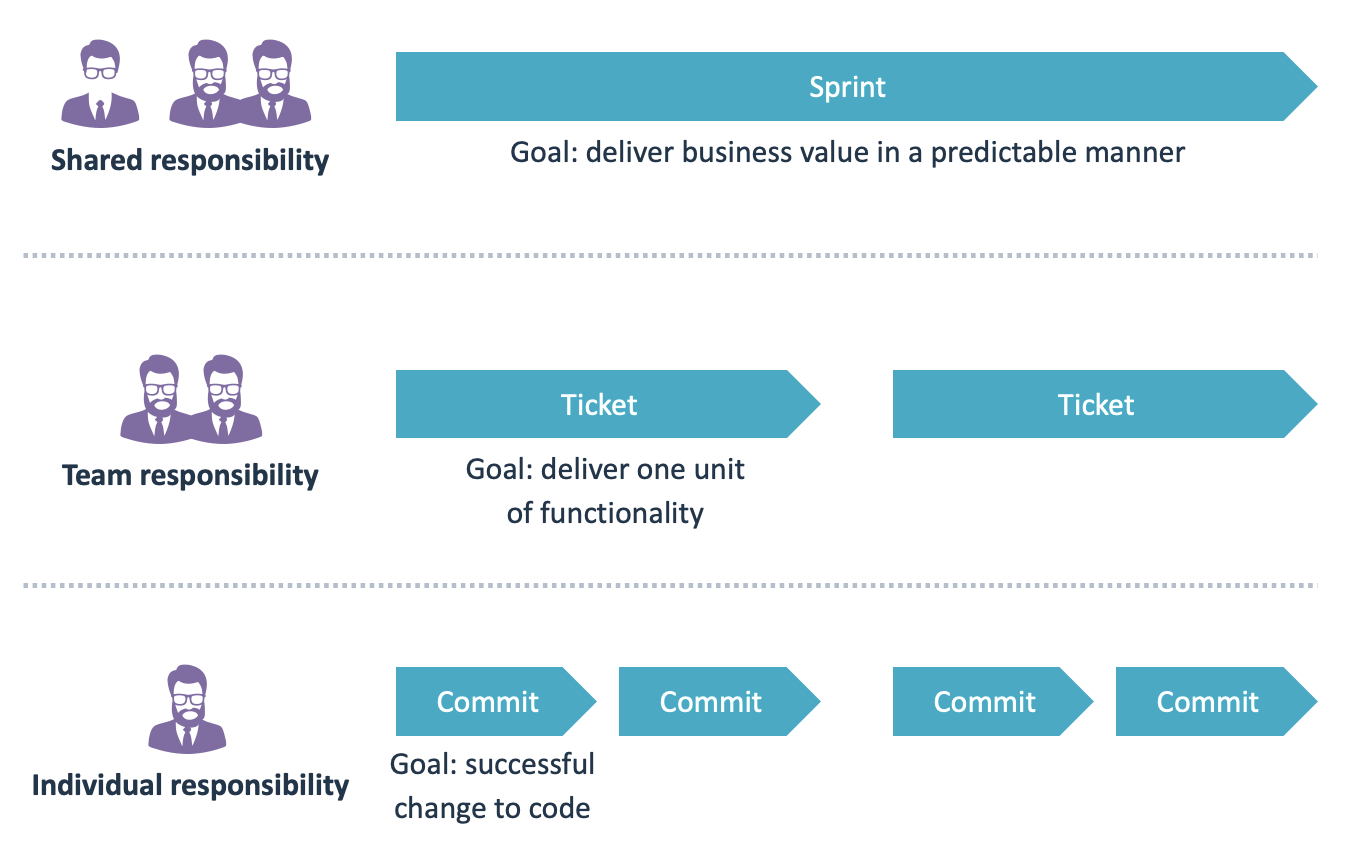
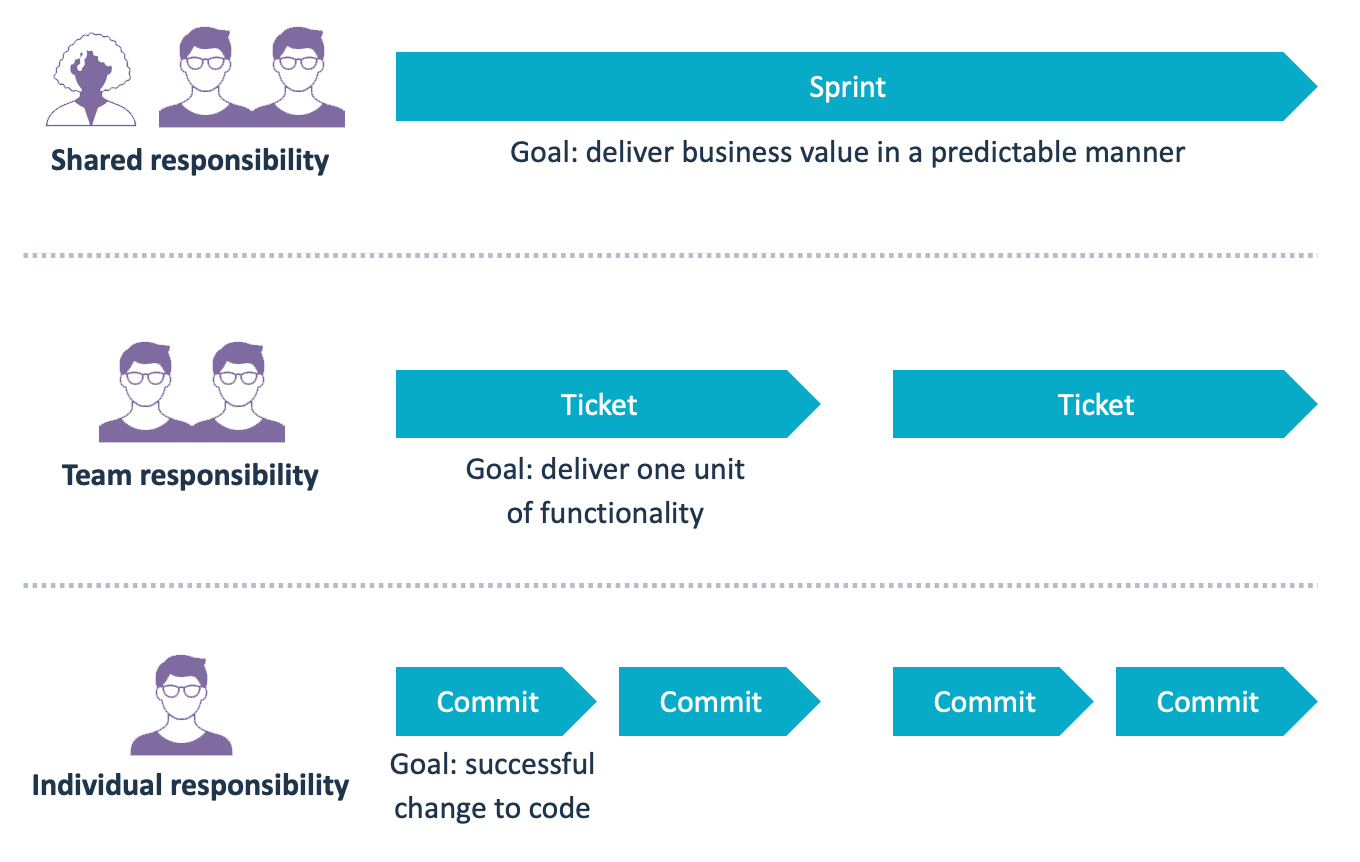
Update images, disallow smart quotes in Markdown.

diff --git a/test/test_documentation.py b/test/test_documentation.py
@@ -52,6 +52,12 @@ class DocumentationTest(unittest.TestCase):
             
         for file in self.listDocumentationImages():
             self.assertEqual(file, file.lower(), f"Image file name should be lowercase: {file}")
+            
+    def testMarkdownShouldNotContainSmartQuotes(self):
+        for file, contents in self.readDocumentationPages():
+            for line in contents.split("\n"):
+                if "\u201B" in line or "\u201C" in line or "\u201D" in line or "\u201F" in line:
+                    self.fail(f"{file} contains smart quote characters, which is likely unintentional:\n{line}")
         
     def readDocumentationPages(self):
         with open("README.md", "r") as fileRef:

diff --git a/docs/capabilities/system-maintainability.md b/docs/capabilities/system-maintainability.md
@@ -30,7 +30,7 @@ Below the metrics overview, there is a shortcut to the *Refactoring candidates* 
 
 ### Technical Monitor and Code Explorer
  
-The “*Technical monitor*” button above the system rating brings you to an alternative (one might say, “legacy”) view of all the maintainability metrics and underlying source code. Its functionality and views will eventually be moved to Sigrid. Generally, its source code-level view is available in Sigrid in the [Code Explorer](system-code-explorer.md). 
+The *Technical monitor* button above the system rating brings you to an alternative (one might say, "legacy") view of all the maintainability metrics and underlying source code. Its functionality and views will eventually be moved to Sigrid. Generally, its source code-level view is available in Sigrid in the [Code Explorer](system-code-explorer.md). 
 
 <img src="../images/technical-monitor-shortcut.png" width="300" />
 
@@ -42,10 +42,10 @@ The *Component Dependency* view visualizes the dependencies between your applica
 <img src="../images/system-component-dependencies.png" width="600" />
 
 ### Meaning of the dependencies
-The arrows denote call direction within the code; a number on top of an arrow indicates the count of dependencies (that is, >1). Note that only calls will be shown that are identifiable as code dependencies (“static”). This excludes dependencies that may occur in production because of communication to frameworks or resources that are not explicitly defined in the source code. 
+The arrows denote call direction within the code; a number on top of an arrow indicates the count of dependencies (that is, >1). Note that only calls will be shown that are identifiable as code dependencies ("static"). This excludes dependencies that may occur in production because of communication to frameworks or resources that are not explicitly defined in the source code. 
 
 ### Visualization options and filters
-Different types of dependency antipatterns can be shown by toggling *”Visualize component entanglement”*. 
+Different types of dependency antipatterns can be shown by toggling *Visualize component entanglement*. 
 
 <img src="../images/system-component-dependencies-visualize-toggle.png" width="300" />
 
@@ -55,9 +55,9 @@ Once activated, a legend will appear at the bottom describing the different type
 
 The legend’s colors denotes the severity of the antipattern: 
 
-* **Layer bypassing dependency:** an architectural layer appears to be bypassed; a component has both a direct and indirect (“transitive”) dependency to another component.
+* **Layer bypassing dependency:** an architectural layer appears to be bypassed; a component has both a direct and indirect ("transitive") dependency to another component.
 * **Indirect cyclic dependency:** a set of components (>2) does not have direct cyclic dependencies, but the communication lines between the involved components form a cycle.
-* **Cyclic dependency:** code within 2 components appear to “depend on each other”.
+* **Cyclic dependency:** code within 2 components appear to "depend on each other".
 
 For details on their specifics, see the [Reference page on our quality models](../reference/sig-quality-models.md), specifically the [Maintainability Guidance for Producers](https://softwareimprovementgroup.com/wp-content/uploads/SIG-TUViT-Evaluation-Criteria-Trusted-Product-Maintainability-Guidance-for-producers.pdf).
 
@@ -88,17 +88,17 @@ This view lists the top 100 findings per metric.
 
 <img src="../images/system-refactoring-candidates.png" width="600" />
 
-Clicking on a metric will expand the list, prioritized by the “severity” of the violation. This is a good approximation of technical risk. The order/prioritization of the findings cannot be changed, but their status can be. The default status is *“Raw”*. This is meant in the sense of “not yet curated by hand”. Setting another status may help you to filter findings. A finding can be set to *“Prioritize”* or *“Accept risk”*.  
+Clicking on a metric will expand the list, prioritized by the "severity" of the violation. This is a good approximation of technical risk. The order/prioritization of the findings cannot be changed, but their status can be. The default status is *Raw*. This is meant in the sense of "not yet curated by hand". Setting another status may help you to filter findings. A finding can be set to *Prioritize* or *Accept risk*.  
 
 <img src="../images/system-refactoring-candidates-3dots-status.png" width="300" />
 
-Setting a finding to *“Prioritize”* will show as *“Will fix”*
+Setting a finding to *Prioritize* will show as *Will fix*
 
 <img src="../images/system-refactoring-candidates-status-set.png" width="300" />
 
-When you set a finding to *“Accept Risk”*, its status will change to *“Risk accepted”* and the finding will be hidden by default. 
+When you set a finding to *Accept Risk*, its status will change to *Risk accepted* and the finding will be hidden by default. 
 
-<img src="../images/filter-2.png" class="inline" /> Findings with *“Risk accepted”* can still be viewed by using the filter. By default the filter is set to *“Will fix”* and *“Raw"* only. 
+<img src="../images/filter-2.png" class="inline" /> Findings with *Risk accepted* can still be viewed by using the filter. By default the filter is set to *Will fix* and *Raw* only. 
 
 The relevant filter is shown below.
 
@@ -113,7 +113,7 @@ As an example, the risk categories for *Unit complexity* as shown at the top of 
 
 <img src="../images/system-refactoring-candidates-unit-complexity-risk-profile.png" width="600" />
 
-The exception in this ordering is *Duplication*, where no different degrees of risks are used for the rating calculation. They are ordered by *duplicate size*, where a duplicate may appear more than 3 times, in 1 or multiple files. This is visible next to the file names in the columns "*Same file*" and "*Same component*".
+The exception in this ordering is *Duplication*, where no different degrees of risks are used for the rating calculation. They are ordered by *duplicate size*, where a duplicate may appear more than 3 times, in 1 or multiple files. This is visible next to the file names in the columns *Same file* and *Same component*.
 
 The risk impact ordering is a good indication for prioritization of findings, but it may need a case-by-case analysis. Context is a defining factor, which is discussed below. 
 
@@ -124,14 +124,14 @@ Being refactoring *candidates* should be taken literally. It is not to say that 
 The decision to refactor is essentially a cost-benefit trade-off. As a simplification this is determined by:
 * The size of the **problem**
 * The amount of **effort** to resolve that
-* Expected **benefits** (like its "*future value*")
+* Expected **benefits** (like its *future value*)
 
 Questions to ask yourself dealing with refactoring candidates include:
 
 **Problem** 
 * Does this piece of code cause trouble to me or other developers? E.g. is this a long `switch` statement scoring badly for unit complexity, but it is perfectly readable in context?
   * How likely is it that this code will need (frequent) modification in the future?
-  * Is this problem likely to grow? A "*mistake waiting to happen*"? For example, could this maintainability "*tarnish*" evolve into a security flaw?   
+  * Is this problem likely to grow? A *mistake waiting to happen*? For example, could this maintainability *tarnish* evolve into a security flaw?   
 * How important/critical is this code in context of the system? Do we value its stability more than technical elegance?
   * To what extent is this code guarded against undesirable behavior (being well tested and contained)? And is this in sufficient proportion to the code's importance?
 
@@ -155,7 +155,7 @@ A typical approach and different options to investigate what is going on in term
 * **Getting an overview:** the [Maintainability Overview (see above)](#maintainability-overview) is the place to start. The different metrics give a quick breakdown of system characteristics (such as Volume or Duplication). For a background on maintainability, [see "*Our approach*" section under "*Getting Started*"](../getting-started/approach.md). 
 You can find the [technical details of maintainability metrics under "*References*"](../reference/sig-quality-models.md).
 
-With the default treemap view, as an example, a large drop in "*Component independence*" may lead you to filter on change in that metric specifically over the chosen time period. With the following menu:
+With the default treemap view, as an example, a large drop in *Component independence* may lead you to filter on change in that metric specifically over the chosen time period. With the following menu:
 
 <img src="../images/system-overview-treemap-menu-change-component-independence.png" width="600" />
 
@@ -163,7 +163,7 @@ This results in the following overview colored by rating change impact on a gree
 
 <img src="../images/system-overview-treemap-component-independence-change.png" width="600" />
 
-To get an insight into the point of time of large changes, it may be useful to turn the default treemap into a trendline (change in the "*Chart*" drop-down menu) to see approximate when large changes have taken place. As an example, distinguishing between different metrics ("*System properties*"):
+To get an insight into the point of time of large changes, it may be useful to turn the default treemap into a trendline (change in the *Chart* drop-down menu) to see approximate when large changes have taken place. As an example, distinguishing between different metrics (*System properties*):
 
 <img src="../images/system-overview-trend-system-properties.png" width="600" />
 
@@ -174,9 +174,9 @@ Assuming that this has been your first step into maintainability analysis, you c
 * **Triggered by a specific maintainability rating change**: you may be interested in understanding the cause of a specific change. There are several ways to analyze this deeper: 
   * **Delta quality**: In case of a recent change, the *Delta quality* view shows you how and where recent code modifications/additions have affected the maintainabilty rating. 
   * **Refactoring candidates**: In case code steps over certain risk thresholds ("*a violation*"), it will show up in the *Refactoring Candidates* [see Refactoring Candidates paragraph above](#refactoring-candidates). There may be several trade-offs in deciding whether and when to refactor [see relevant paragraph above on dealing with refactoring candidates](#dealing-with-refactoring-candidates). 
-    * As an exception, there might be no "*Component Entanglement*" violations visible while its rating is below 4-star rating. That can be the case if there are no architectural violations to resolve, but when the number of components and their connections are higher than the benchmark. This would be visible in the [Component Dependencies view](#component-dependencies) (but **not** in the *Architecture Quality* view, since they are not directly related). 
+    * As an exception, there might be no *Component Entanglement* violations visible while its rating is below 4-star rating. That can be the case if there are no architectural violations to resolve, but when the number of components and their connections are higher than the benchmark. This would be visible in the [Component Dependencies view](#component-dependencies) (but **not** in the *Architecture Quality* view, since they are not directly related). 
     * For *Duplication* and unit metrics, clicking on a *Refactoring candidate* will show the affected code highlighted in context of this one file. 
   * **Code Explorer**: You may reach the *Code Explorer* from a finding in the *Refactoring candidates* list or the detailed file list from the *Delta quality* view. there you can go to the *Code Explorer* to see the unit/file/component in context of the codebase. The Code Explorer is also a good place to start if you suspect specific maintenance hotspots and want to understand the details. [See the *Code Explorer* page](system-code-explorer.md). An advantage of the Code Explorer is that it can also show per file/unit whether it contains other risky constructs, e.g. regarding security. 
-  * **Using the Technical Monitor**: The strength of the *"Technical Monitor"* (accessible from the maintainability overview page) is making detailed comparisons between snapshots and filtering by technologies [discussed as part of the Code Explorer page](system-code-explorer.md#the-technical-monitor).
+  * **Using the Technical Monitor**: The strength of the *Technical Monitor* (accessible from the maintainability overview page) is making detailed comparisons between snapshots and filtering by technologies [discussed as part of the Code Explorer page](system-code-explorer.md#the-technical-monitor).
 
 

diff --git a/docs/capabilities/system-code-explorer.md b/docs/capabilities/system-code-explorer.md
@@ -12,38 +12,38 @@ You can reach this view in different ways: Via the top menu, or clicking an a ca
 ### Different views: directory or component structure
 The default view lets you choose between a directory structure. It represents the structure as the source is unpacked at our (SIG's) side.   
 
-<img src="../images/system-code-explorer-default-view.png" width=”400" />
+<img src="../images/system-code-explorer-default-view.png" width="400" />
 
 By default the structure is collapsed. It can be expanded (or be undone) with the top right icons:
 
-<img src="../images/system-code-explorer-icon-expand-all.png" width=”300" />
+<img src="../images/system-code-explorer-icon-expand-all.png" width="300" />
 
 The directory view and component view in most cases are (almost) the same. This can be a matter of how the system is defined or scoped. Scoping choices may allow for specific filtering and componentization, e.g. a component division that does not follow the directory structure or [when you are working with multiple repositories](faq.md#we-have-a-multi-repo-project-can-i-still-use-sigrid-ci). For details on scoping, see the [scope configuration page](../reference/analysis-scope-configuration.md).
 
 ### Navigating a directory or component in the Code Explorer
 Clicking on a *directory* or *component* will make 2 panels appear to the right: sources (on top) and findings (on bottom). The panels will change dynamically, depending on e.g. which file and finding you select. By default, a treemap represents the collection of files. The size of the squares/quadrilaterals represents code volume. A mouseover on a file shows volume- and finding counts. In the lower right panel, *Maintainability* and its metric *Duplication* are shown by default. They can be changed according to interest. 
 
-<img src="../images/system-code-explorer-directory-tree.png" width=”600" />
+<img src="../images/system-code-explorer-directory-tree.png" width="600" />
 
 ### Navigating a file in the Code Explorer
 Clicking on a *file* will show its source in the top panels. By default, focus in the top panel will jump to the first duplication finding. Findings are highlighted on a yellow/orange spectrum. If 2 or more findings overlap, the overlapping space will be accented with a darker shade. By default (when not clicking a specific finding in the bottom panel), a colored slide on the left of the code lines will reflect where findings are present. A mouseover shows the findings:
 
-<img src="../images/system-code-explorer-file-focus-line-mouseover.png" width=”600" />
+<img src="../images/system-code-explorer-file-focus-line-mouseover.png" width="600" />
 
 If you click on one specific finding in the bottom panel, only the shade will remain, highlighting that one finding. Sigrid assumes that if you choose a specific finding, you are only interested in that finding at the moment, so it filters the other findings from view. 
 
-<img src="../images/system-code-explorer-finding-focus-block.png" width=”600" />
+<img src="../images/system-code-explorer-finding-focus-block.png" width="600" />
 
 Clicking on one of the finding characteristics again (e.g. *Duplication*) will bring back the afore mentioned slide/indication of multiple findings.
 
 If desired, you can fold code blocks - based on curly brackets *{* and *}* - by clicking the downwards pointing triangle.
 
-<img src="../images/system-code-explorer-file-focus-line-fold-code.png" width=”300" />
+<img src="../images/system-code-explorer-file-focus-line-fold-code.png" width="300" />
 
 ### Assisting in planning with issue tracker text 
 Findings that you wish to solve later on can be exported as text with static links for your issue tracker.
 
-<img src="../images/system-code-explorer-finding-to-planning.png" width=”600" />
+<img src="../images/system-code-explorer-finding-to-planning.png" width="600" />
 
 ## The Technical monitor
 As mentioned in [the system maintainability page](system-maintainability.md#technical-monitor-and-code-explorer), the "*Technical Monitor*" may be considered Sigrid's predecessor and as such is not actively being maintained. Its functionality and views will eventually be moved to Sigrid, notably in [the Maintainability overview page (doc page)](system-maintainability.md#maintainability-overview) and *Code Explorer*. It does have distinguishing features that are helpful for your analysis.

diff --git a/docs/capabilities/portfolio-maintainability.md b/docs/capabilities/portfolio-maintainability.md
@@ -45,7 +45,7 @@ To gauge portfolio health and portfolio trends, example analysis questions are:
 * Which direction is technical debt moving? Does this impede developers to support the business with sufficient speed and quality?
 
 ## Portfolio view by system lifecycle phase
-Below, systems are grouped by lifecycle phase. A lifecycle phase is an indication of a system’s maturity and “adaptability needs”, their expected path of continuation. They range from: Initial development > Evolution > Servicing & maintenance > End-of-life. You will generally expect to see a higher maintainability for younger systems (Initial development and Evolution), because they have a long time of changes ahead of them. Lower code quality early on in a system’s life will hurt more over the long term than it would for a system that is already considered “end-of-life”. 
+Below, systems are grouped by lifecycle phase. A lifecycle phase is an indication of a system’s maturity and "adaptability needs", their expected path of continuation. They range from: Initial development > Evolution > Servicing & maintenance > End-of-life. You will generally expect to see a higher maintainability for younger systems (Initial development and Evolution), because they have a long time of changes ahead of them. Lower code quality early on in a system’s life will hurt more over the long term than it would for a system that is already considered "end-of-life". 
 Setting this lifecycle metadata is discussed in the [metadata page](../organization-integration/metadata.md). 
 
 <img src="../images/help-button.png" class="inline" /> The "?" help buttons explain the meaning of the different types of settings.

diff --git a/docs/getting-started/approach.md b/docs/getting-started/approach.md
@@ -6,7 +6,7 @@ A benchmark on quality is meaningful because it shows you an unbiased norm of ho
 
 Sigrid compares analysis results for your system against a benchmark of 10,000+ industry systems, to give you that perspective. 
 
-This benchmark set is selected and calibrated yearly to give a balanced view of the *current state of software development*. “Balanced” here can be understood as a representative spread of the “system population”. This will include anything in between old and new technologies. In terms of technologies this is skewed towards programming languages that are now most common. The metrics underlying the benchmark approach a normal distribution.
+This benchmark set is selected and calibrated yearly to give a balanced view of the *current state of software development*. "Balanced" here can be understood as a representative spread of the "system population". This will include anything in between old and new technologies. In terms of technologies this is skewed towards programming languages that are now most common. The metrics underlying the benchmark approach a normal distribution.
 
 ## Benchmarking from 1 to 5 stars
 

diff --git a/docs/README.md b/docs/README.md
@@ -43,7 +43,7 @@ The screenshot above shows an example on how Sigrid can help you to define and t
 
 ## How does Sigrid work?
 
-Essentially, Sigrid’s insights are based on source code analysis. Analyses are run on the code “as is”, so without actually running the system. This is known as *static analysis*, as opposed to *dynamic analysis*. Dynamic analysis of software is more typically done by the developers themselves, because it requires a simulation of how a system will behave in operation.
+Essentially, Sigrid’s insights are based on source code analysis. Analyses are run on the code "as is", so without actually running the system. This is known as *static analysis*, as opposed to *dynamic analysis*. Dynamic analysis of software is more typically done by the developers themselves, because it requires a simulation of how a system will behave in operation.
 
 Sigrid recognizes, calculates and prioritizes code characteristics that indicate software health. Such as whether the code contains design anti-patterns (undesirable constructs), whether the code contains security flaws (or imported, external code contains those).  
 

diff --git a/docs/capabilities/system-open-source-health.md b/docs/capabilities/system-open-source-health.md
@@ -1,5 +1,5 @@
 # System-level Open Source Health (OSH)
-Sigrid runs a comprehensive analysis of open source software that is used in the source code. These are known here as “*Third party libraries*”. 
+Sigrid runs a comprehensive analysis of open source software that is used in the source code. These are known here as *third party libraries*. 
 
 ## Reaching the OSH page
 You can reach the Open Source Health information via the top menu if you are in System view already:
@@ -15,7 +15,7 @@ The system level overview lists the third party libraries used in this system, c
 
 ### Open Source Health scans for 6 different risk areas
 
-“*Open Source Health*” scans for six different risk areas: 
+*Open Source Health* scans for six different risk areas: 
 
 <img src="../images/system-osh-icon-vulnerability.png" class="inline" /> **Known vulnerabilities:** publicly known and categorized vulnerabilities in a third-party dependency.
 
